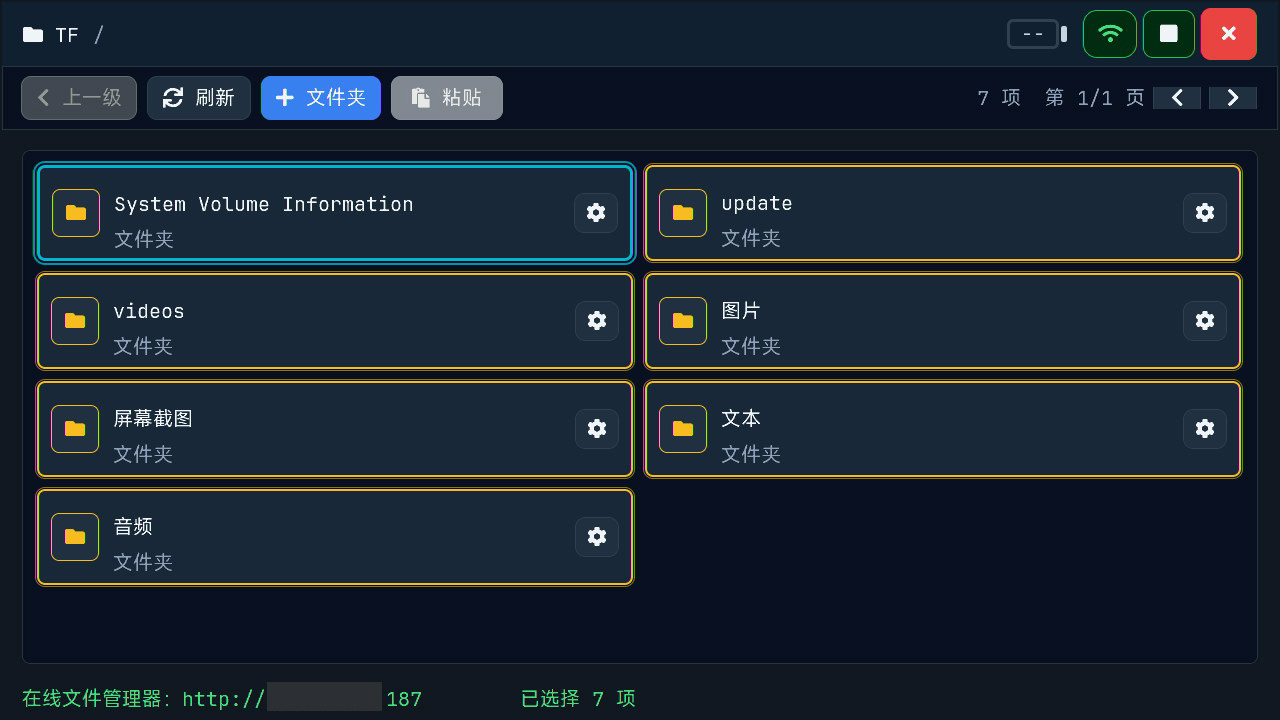
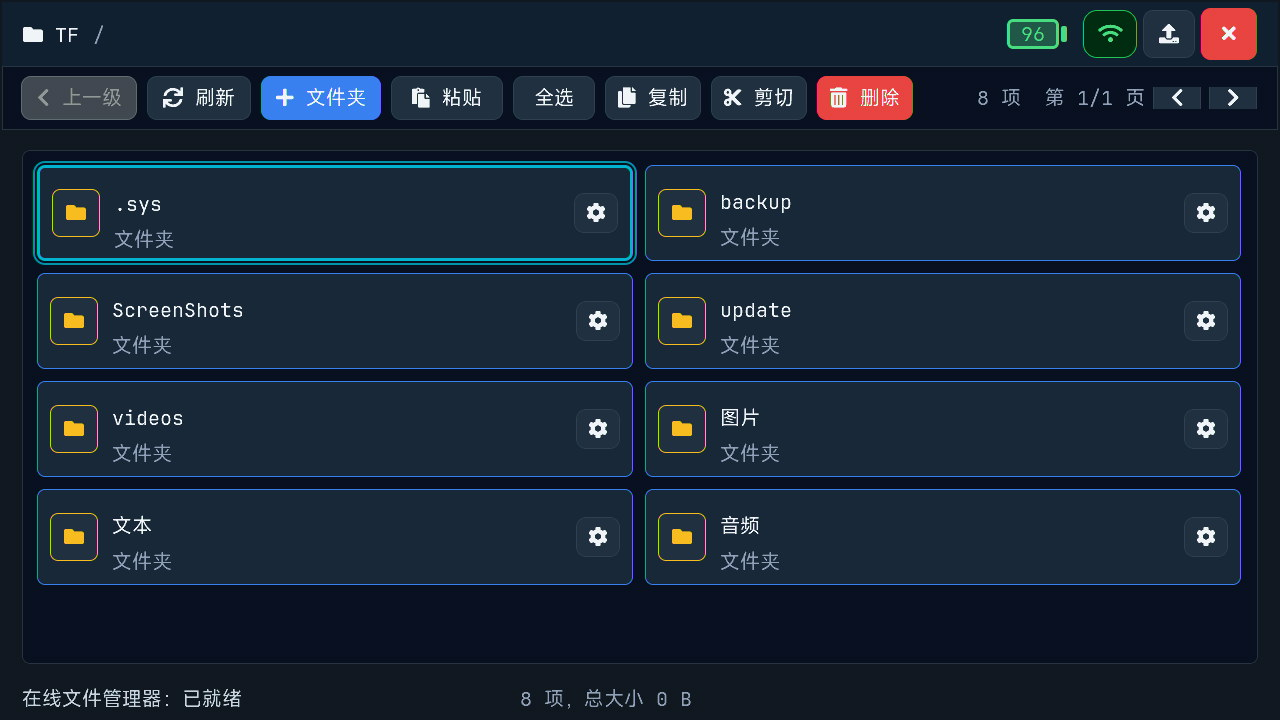
Enhance USB device reading and use Type-C ports to connect to computers as high-capacity storage devices

diff --git a/README_en.md b/README_en.md
@@ -29,9 +29,14 @@ Currently supported:
 
 ---
 
+## Notes
+
+1. Enabling WiFi to upload files via the online file manager consumes significant power (nearly 11W). After flashing firmware via USB, please use a power adapter capable of delivering 5V 2A.
+2. Due to a known architectural flaw in the ESP32-P4 + C6 design (SDIO flow control defect for inbound TCP data / upload direction), uploading multiple large files via the online file manager is highly unstable. We are waiting for a new solution from the community.
+
 ## Product Preview
 
-![Device Photo](images/cn_tab5_5.jpg)
+![Device Photo](images/tab5_1.jpg)
 
 The device can be used with the Tab5 touchscreen, an optional physical keyboard, TF card storage, WiFi networking, and the built-in SSH terminal UI.
 
@@ -47,7 +52,7 @@ The device can be used with the Tab5 touchscreen, an optional physical keyboard,
 - Full-screen terminal with touch hot zones for the status bar, control bar, and soft keyboard
 - Optional physical keyboard support for common terminal keys
 
-![SSH Terminal](images/cn_tab5_2.jpg)
+![SSH Terminal](images/en_tab5_2.jpg)
 
 ### TF Card File Manager
 
@@ -57,7 +62,7 @@ The device can be used with the Tab5 touchscreen, an optional physical keyboard,
 - Online file manager over WiFi for browser-based file access
 
 ![File Manager](images/en_tab5_3.jpg)
-![picture view](images/tab5_1.jpg)
+![Picture View](images/en_tab5_7.jpg)
 ### Music Player
 
 - Play MP3/FLAC files from the TF card
@@ -65,7 +70,7 @@ The device can be used with the Tab5 touchscreen, an optional physical keyboard,
 - Favorites list
 - Album cover display when embedded artwork is available
 
-![Music Player](images/cn_tab5_2.jpg)
+![Music Player](images/en_tab5_8.jpg)
 
 ### OTA Firmware Upgrade
 
@@ -73,7 +78,7 @@ The device can be used with the Tab5 touchscreen, an optional physical keyboard,
 - Download firmware packages to the TF card
 - Verify version and package data before installation
 
-![OTA Upgrade](images/cn_tab5_6.jpg)
+![OTA Upgrade](images/en_tab5_6.jpg)
 
 ### System Tools
 
@@ -83,7 +88,7 @@ The device can be used with the Tab5 touchscreen, an optional physical keyboard,
 - Encrypted and plain configuration backup options
 - Language, timezone, top music bar, and display settings
 
-![Settings](images/cn_tab5_1.jpg)
+![Settings](images/en_tab5_1.jpg)
 
 ---
 

diff --git a/README.md b/README.md
@@ -29,9 +29,14 @@ Currently supported:
 
 ---
 
+## Notes
+
+1. Enabling WiFi to upload files via the online file manager consumes significant power (nearly 11W). After flashing firmware via USB, please use a power adapter capable of delivering 5V 2A.
+2. Due to a known architectural flaw in the ESP32-P4 + C6 design (SDIO flow control defect for inbound TCP data / upload direction), uploading multiple large files via the online file manager is highly unstable. We are waiting for a new solution from the community.
+
 ## Product Preview
 
-![Device Photo](images/cn_tab5_5.jpg)
+![Device Photo](images/tab5_1.jpg)
 
 The device can be used with the Tab5 touchscreen, an optional physical keyboard, TF card storage, WiFi networking, and the built-in SSH terminal UI.
 
@@ -47,7 +52,7 @@ The device can be used with the Tab5 touchscreen, an optional physical keyboard,
 - Full-screen terminal with touch hot zones for the status bar, control bar, and soft keyboard
 - Optional physical keyboard support for common terminal keys
 
-![SSH Terminal](images/cn_tab5_2.jpg)
+![SSH Terminal](images/en_tab5_2.jpg)
 
 ### TF Card File Manager
 
@@ -57,6 +62,7 @@ The device can be used with the Tab5 touchscreen, an optional physical keyboard,
 - Online file manager over WiFi for browser-based file access
 
 ![File Manager](images/en_tab5_3.jpg)
+![Picture View](images/en_tab5_7.jpg)
 
 ### Music Player
 
@@ -65,7 +71,7 @@ The device can be used with the Tab5 touchscreen, an optional physical keyboard,
 - Favorites list
 - Album cover display when embedded artwork is available
 
-![Music Player](images/tab5_2.jpg)
+![Music Player](images/en_tab5_8.jpg)
 
 ### OTA Firmware Upgrade
 
@@ -73,7 +79,7 @@ The device can be used with the Tab5 touchscreen, an optional physical keyboard,
 - Download firmware packages to the TF card
 - Verify version and package data before installation
 
-![OTA Upgrade](images/cn_tab5_6.jpg)
+![OTA Upgrade](images/en_tab5_6.jpg)
 
 ### System Tools
 
@@ -83,7 +89,7 @@ The device can be used with the Tab5 touchscreen, an optional physical keyboard,
 - Encrypted and plain configuration backup options
 - Language, timezone, top music bar, and display settings
 
-![Settings](images/cn_tab5_1.jpg)
+![Settings](images/en_tab5_1.jpg)
 
 ---
 

diff --git a/README_zh-CN.md b/README_zh-CN.md
@@ -29,9 +29,14 @@
 
 ---
 
+## 注意事项
+
+1、当设备开启WIFI使用在线文件管理功能上传文件时候耗电巨大，接近11W功耗，USB刷新固件之后请使用满足5V 2A的电源适配器供电。
+2、由于ESP32-P4 + C6 的架构性已知缺陷（入站TCP数据（上传方向）的 SDIO flow control 缺陷）在线文件管理上传多个大文件极不稳定，暂时等待社区那边新的解决方案。
+
 ## 产品预览
 
-![实物照片](images/cn_tab5_5.jpg)
+![实物照片](images/tab5_1.jpg)
 
 设备可配合 Tab5 触摸屏、可选实体键盘、TF 卡存储、WiFi 网络和内置 SSH 终端界面使用。
 
@@ -66,7 +71,7 @@
 - WiFi 环境下可开启在线文件管理器，通过浏览器访问设备文件
 
 ![文件管理器](images/cn_tab5_3.jpg)
-![图像浏览](images/tab5_1.jpg)
+![图像浏览](images/cn_tab5_7.jpg)
 ### 音乐播放器
 
 - 从 TF 卡播放 MP3/FLAC 音乐
@@ -74,7 +79,7 @@
 - 支持收藏夹
 - 支持读取歌曲内嵌封面并显示
 
-![音乐播放器](images/tab5_2.jpg)
+![音乐播放器](images/cn_tab5_8.jpg)
 
 ### OTA 固件升级
 

diff --git a/README_zh-TW.md b/README_zh-TW.md
@@ -29,9 +29,14 @@
 
 ---
 
+## 注意事項
+
+1、當設備開啟WIFI使用線上檔案管理功能上傳檔案時耗電巨大，接近11W功耗，USB刷入韌體之後請使用滿足5V 2A的電源適配器供電。
+2、由於ESP32-P4 + C6 的架構性已知缺陷（入站TCP資料（上傳方向）的 SDIO flow control 缺陷）線上檔案管理上傳多個大檔案極不穩定，暫時等待社群那邊新的解決方案。
+
 ## 產品預覽
 
-![實物照片](images/cn_tab5_5.jpg)
+![實物照片](images/tab5_1.jpg)
 
 設備可配合 Tab5 觸控螢幕、可選實體鍵盤、TF 卡儲存、WiFi 網路和內建 SSH 終端介面使用。
 
@@ -66,7 +71,7 @@
 - WiFi 環境下可開啟線上檔案管理器，透過瀏覽器存取設備檔案
 
 ![檔案管理器](images/cn_tab5_3.jpg)
-![圖像瀏覽](images/tab5_1.jpg)
+![圖像瀏覽](images/cn_tab5_7.jpg)
 ### 音樂播放器
 
 - 從 TF 卡播放 MP3/FLAC 音樂
@@ -74,7 +79,7 @@
 - 支援收藏夾
 - 支援讀取歌曲內嵌封面並顯示
 
-![音樂播放器](images/tab5_2.jpg)
+![音樂播放器](images/cn_tab5_8.jpg)
 
 ### OTA 韌體升級
 